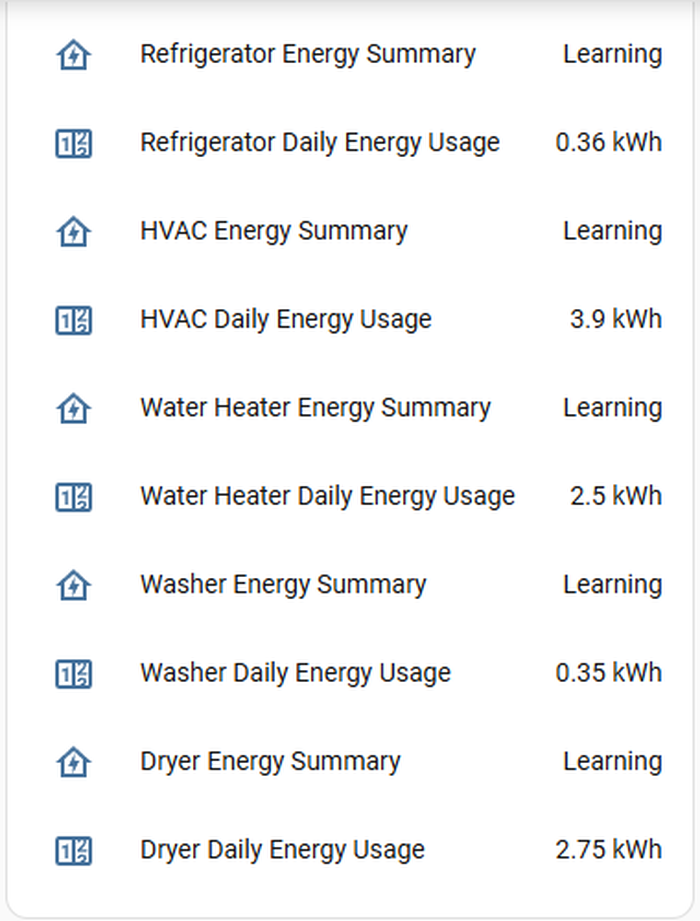
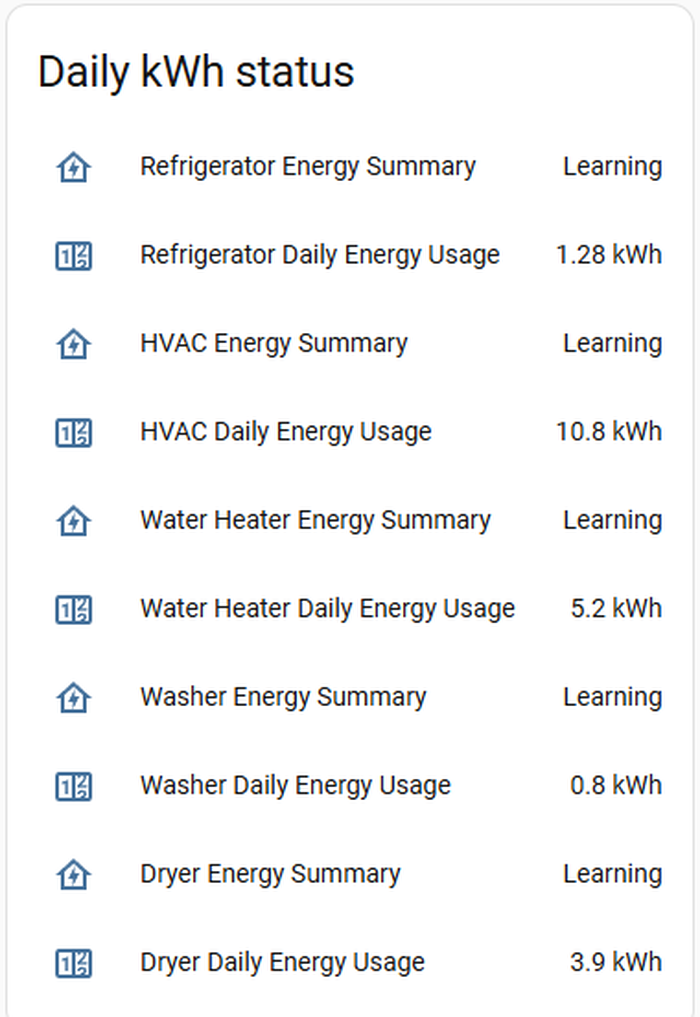
Refresh demo dashboard screenshots

diff --git a/tests/test_user_facing_text.py b/tests/test_user_facing_text.py
@@ -364,8 +364,14 @@ def test_dashboard_example_prioritizes_summary_cards_over_sensor_lists() -> None
 
     assert card_types.count("entities") <= 10
     assert "glance" in card_types
-    assert "history-graph" in card_types
+    assert "statistics-graph" in card_types
     assert any(card.get("title") == "At a glance" for card in cards)
+    statistics_cards = [
+        card for card in cards if card.get("type") == "statistics-graph"
+    ]
+    assert statistics_cards
+    assert all(card.get("days_to_show") == 7 for card in statistics_cards)
+    assert all(card.get("period") == "day" for card in statistics_cards)
 
 
 def test_dashboard_example_omits_hidden_default_entities() -> None:
@@ -685,6 +691,7 @@ def test_readme_screenshot_references_exist_and_are_cropped() -> None:
         "docs/images/readme/always-on-standby.png",
         "docs/images/readme/experimental-nilm.png",
         "docs/images/readme/alert-philosophy.png",
+        "docs/images/readme/notifications-panel.png",
         "docs/images/readme/notifications-repairs.png",
         "docs/images/readme/demo-dashboard.png",
     }

diff --git a/README.md b/README.md
@@ -502,6 +502,8 @@ This means a refrigerator alert might say that cycle duration appears unusual co
 
 Persistent notifications are reserved for important evidence about appliance behavior, such as repeated anomaly evidence after the learning period.
 
+![Home Assistant notification drawer showing a CircuitSetup Energy Analyzer possible-issue notification](docs/images/readme/notifications-panel.png)
+
 Home Assistant Repairs are used for setup, configuration, and data-quality problems: missing required sensors, stale source sensors, phase mismatch, missing mains NILM sensors, or low NILM confidence. Repairs should help fix the integration inputs before appliance analysis continues.
 
 ![Observed evidence card used for possible-issue notifications and setup review](docs/images/readme/notifications-repairs.png)
